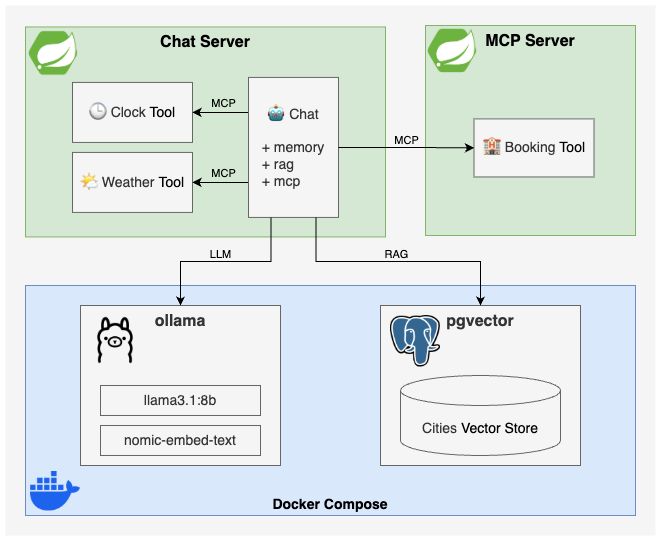
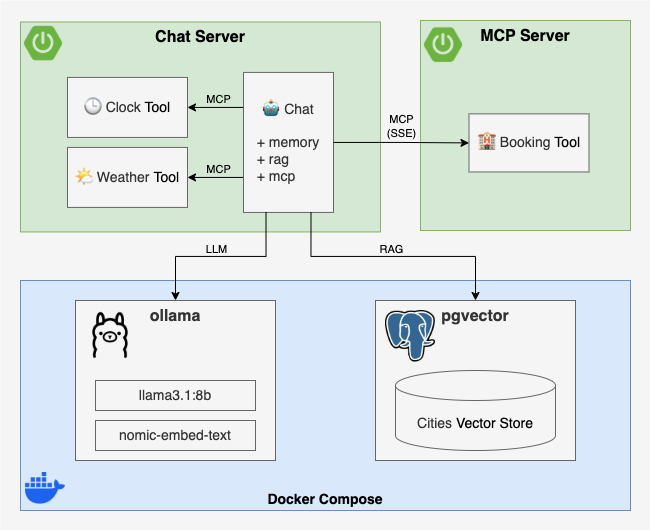
More doc (#7)

Changed region(s): [[0.0308, 0.0302, 0.9846, 0.966], [0.6462, 0.0302, 0.9846, 0.4528], [0.5231, 0.2113, 0.9231, 0.3321]]

diff --git a/README.md b/README.md
@@ -7,12 +7,13 @@
 
 # Spring Boot AI
 
-In this example, inspired by [Building Agents with AWS: Complete Tutorial](https://youtu.be/Y291afdLroQ?si=3xFBJo0Nfa-RmPkV), we will build a simple AI agent application using [Spring Boot AI](https://docs.spring.io/spring-ai/reference/index.html), highlighting key features like:
+In this example, inspired by [Building Agents with AWS: Complete Tutorial](https://youtu.be/Y291afdLroQ?si=3xFBJo0Nfa-RmPkV), we will build a simple AI agent application using [Spring AI](https://docs.spring.io/spring-ai/reference/index.html), highlighting key features like:
 * [Chat Client API](https://docs.spring.io/spring-ai/reference/api/chatclient.html) and its [Advisors](https://docs.spring.io/spring-ai/reference/api/advisors.html)
 * Model Context Protocol ([MCP](https://docs.spring.io/spring-ai/reference/api/mcp/mcp-overview.html))
 * Retrieval Augmented Generation ([RAG](https://docs.spring.io/spring-ai/reference/api/retrieval-augmented-generation.html))
+* Testing with [AI Model Evaluation](https://docs.spring.io/spring-ai/reference/api/testing.html) 🤩
 
-We will use [Ollama](https://ollama.com/), which will hopefully let us run a local LLM without too much struggle 😮💨 or heavy hardware requirements. The application will be tested using [AI Model Evaluation](https://docs.spring.io/spring-ai/reference/api/testing.html), and we will set up CI to run these tests automatically.
+The original example uses [AWS Bedrock](https://aws.amazon.com/bedrock/), but one of the great things about **Spring AI** is that with just a few config tweaks and dependency changes, the same code works with any other supported model. In our case, we’ll use [Ollama](https://ollama.com/), which will hopefully let us run locally and in CI without heavy hardware requirements 🙏
 
 The application features an AI agent that helps users book accommodations in tourist destinations.
 
@@ -36,8 +37,10 @@ The **Clock** and **Weather** tools will be implemented locally using **MCP**, w
       * [ChatController](#chatcontroller)
 * [Configuration](#configuration)
 * [Test](#test)
+  * [MCP Server](#mcp-server-1)
+  * [Chat Server](#chat-server-1)
 * [Run](#run)
-* [Other AI models](#other-ai-models)
+* [How to use other AI models](#how-to-use-other-ai-models)
 * [Documentation](#documentation)
 
 ## Implementation
@@ -83,27 +86,27 @@ The **Chat Server** is a Spring Boot application built with the following depend
 
 #### Components
 
-**MCP Tools**
-* **WeatherTool** - a local MCP tool that queries a **WeatherService** for the weather in a given city on a given date
-* **ClockTool** - a local MCP tool that uses the system Clock to return the current date
-* **BookingTool** - a remote MCP tool that connects to the Booking MCP Server to reserve accommodations
-
-**Chat**
-* **ChatClient** - a Spring AI ChatClient configured with:
-  * A system prompt to define the AI agent’s role
-  * The Ollama model autoconfigured by Spring Boot
-  * The above MCP tools as part of the AI agent’s toolset
-* **ChatService** - wraps the **ChatClient** and adds three advisors:
-  * **QuestionAnswerAdvisor** - fetches context from a vector store and augments the user input (RAG)
-  * **PromptChatMemoryAdvisor** - adds conversation history to the user input (chat memory)
-  * **SimpleLoggerAdvisor** - logs the chat history to the console (for debugging)
-* **ChatController** - exposes a simple REST POST endpoint that takes user input, calls the **ChatService**, and returns the AI agent’s response
+* **MCP Tools**
+  * **Weather Tool** - a local MCP tool that queries a **WeatherService** for the weather in a given city on a given date
+  * **Clock Tool** - a local MCP tool that returns the system date, letting us control the date the AI agent uses to avoid unpredictability
+  * **Booking Tool** - a remote MCP tool that connects to the Booking MCP Server to reserve accommodations
+* **Chat**
+  * **Chat Client** - a **Spring AI** ChatClient configured with:
+    * A system prompt to define the AI agent’s role
+    * The Ollama model autoconfigured by Spring Boot
+    * The above MCP tools as part of the AI agent’s toolset
+  * **Chat Service** - wraps the **ChatClient** and adds three advisors:
+    * **QuestionAnswerAdvisor** - fetches context from a vector store and augments the user input (RAG)
+    * **PromptChatMemoryAdvisor** - adds conversation history to the user input (chat memory)
+    * **SimpleLoggerAdvisor** - logs the chat history to the console (for debugging)
+  * **Chat Controller** - exposes a simple REST POST endpoint that takes user input, calls the **ChatService**, and returns the AI agent’s response
+* **Vector Store Initializer** - loads some sample data into the vector store at startup
 
 Let's implement this step by step ...
 
-##### Weather and Clock Tools
+#### Weather and Clock Tools
 
-Here's how the **WeatherTool** is implemented (the same applies to **ClockTool**):
+Here's how the **Weather Tool** is implemented (the same applies to **Clock Tool**):
 
 1. Create an instance and annotate it with `@Tool` and `@ToolParam`:
 ```kotlin
@@ -128,30 +131,26 @@ class WeatherToolConfiguration {
 }
 ```
 
-##### Booking Tool
+#### Booking Tool
 
-To set up the **BookingTool** as a remote MCP tool, we register a `SyncMcpToolCallbackProvider` using an `McpClient` configured with the remote MCP server URL:
+To set up the **Booking Tool** as a remote MCP tool, we just need to configure the MCP client [SSE connection](https://docs.spring.io/spring-ai/reference/api/mcp/mcp-client-boot-starter-docs.html#_sse_transport_properties)  in `application.yml`:
 
-```kotlin
-@Configuration
-class BookingToolConfiguration {
-    @Bean
-    fun bookingToolCallbackProvider(@Value("\${booking-server.url}") url: String) =
-        SyncMcpToolCallbackProvider(mcpSyncClient(url))
-
-    private fun mcpSyncClient(url: String) = McpClient
-        .sync(HttpClientSseClientTransport(url))
-        .build().apply {
-            initialize()
-        }
-}
+```yaml
+spring:
+  ai:
+    mcp:
+      client:
+        sse:
+          connections:
+            booking-tool:
+              url: http://localhost:8081
 ```
 
-For alternative ways to configure it, see the [MCP Client Boot Starter](https://docs.spring.io/spring-ai/reference/api/mcp/mcp-client-boot-starter-docs.html) documentation.
+You can find all the alternative configurations in [MCP Client Boot Starter](https://docs.spring.io/spring-ai/reference/api/mcp/mcp-client-boot-starter-docs.html) documentation.
 
-##### ChatClient
+#### ChatClient
 
-We create the **ChatClient** using Spring Boot AI's `ChatClient.Builder`, which is already autoconfigured via `spring.ai` configuration properties (we'll talk at that later in [Configuration](#configuration)), and initialize it with a custom system prompt and the available MCP tools:
+We create the **ChatClient** using **Spring AI**'s `ChatClient.Builder`, which is already autoconfigured via `spring.ai` configuration properties (we'll talk at that later in [Configuration](#configuration)), and initialize it with a custom system prompt and the available MCP tools:
 
 ```kotlin
 @Configuration
@@ -183,7 +182,7 @@ class ChatClientConfiguration {
 }
 ```
 
-##### ChatService
+#### ChatService
 
 The **ChatService** exposes a single `chat` method that takes a chat ID and a user question. It calls the `ChatClient` with the user question along with a set of advisors to enrich the interaction:
 * **QuestionAnswerAdvisor** - retrieves relevant context from a vector store and injects it to the context (RAG)
@@ -197,7 +196,6 @@ Here’s the implementation:
 ```kotlin
 @Service // or @Bean / @Component
 class ChatService(vectorStore: VectorStore, private val chatClient: ChatClient) {
-
     private val logger = LoggerFactory.getLogger(ChatService::class.java)
     private val questionAnswerAdvisor = QuestionAnswerAdvisor(vectorStore)
     private val simpleLoggerAdvisor = SimpleLoggerAdvisor()
@@ -220,14 +218,13 @@ class ChatService(vectorStore: VectorStore, private val chatClient: ChatClient) 
 }
 ```
 
-##### ChatController
+#### ChatController
 
 The **ChatController** exposes a simple REST POST endpoint that takes user input, calls the `ChatService`, and returns the AI agent’s response:
 
 ```kotlin
 @RestController
 class ChatController(private val chatService: ChatService) {
-
     @PostMapping("/{chatId}/chat")
     fun chat(@PathVariable chatId: String, @RequestParam question: String): String? {
         return chatService.chat(chatId, question)
@@ -235,13 +232,31 @@ class ChatController(private val chatService: ChatService) {
 }
 ```
 
+#### Vector Store Initializer
+
+It's as simple as using **Spring AI**’s autoconfigured `VectorStore` and adding documents to it. This automatically invokes the embedding model to generate embeddings and store them in the vector store:
+
+```kotlin
+@Bean
+fun vectorStoreInitializer(vectorStore: VectorStore) = ApplicationRunner {
+    // TODO check if the vector store is empty ...
+    // TODO load cities from a JSON file or any other source ...
+    cities.forEach { city ->
+      val document = Document("name: ${city.name} country: ${city.country} description: ${city.description}")
+      vectorStore.add(listOf(document))
+    }
+}
+```
+
+You can find the full version of `vectorStoreInitializer` in [ChatServerApplication.kt](chat-server/src/main/kotlin/com/rogervinas/ChatServerApplication.kt).
+
 ## Configuration
 
 In the main `application.yml` file, we define global configuration values:
 * Set the active Spring profile to `ollama`, allowing us to configure specific properties for the Ollama model in the `application-ollama.yml` file.
 * Configure the datasource to connect to a PostgreSQL database with PGVector support.
 * Set the server port to `8080`.
-* Configure the URL of the remote **BookingTool** MCP server.
+* Configure the URL of the remote **Booking Tool** MCP server.
 * Set the logging level for chat advisor debug traces.
 
 ```yaml
@@ -267,7 +282,7 @@ logging:
     org.springframework.ai.chat.client.advisor: INFO
 ```
 
-In the `ollama` profile configuration file, `application-ollama.yml`, we configure Spring AI to use Ollama models:
+In the `ollama` profile configuration file, `application-ollama.yml`, we configure **Spring AI** to use Ollama models:
 * Set the base URL for the Ollama server to `http://localhost:11434`.
 * Set the chat model to [llama3.1:8b](https://ollama.com/library/llama3.1:8b) (must be a **tools**-enabled model).
 * Set the embedding model to [nomic-embed-text](https://ollama.com/library/nomic-embed-text).
@@ -296,7 +311,161 @@ spring:
 
 ## Test
 
-TODO
+### MCP Server
+
+To test the **MCP Server**, we will use a `McpClient` to call the `book` method of the **Booking Tool**, mocking the downstream **BookingService**:
+
+![MCP Server Test](.doc/test-mcp-server.png)
+
+See the simplified test implementation below. For the complete implementation, including a test that verifies the list of available tools, refer to [McpServerApplicationTest.kt](mcp-server/src/test/kotlin/com/rogervinas/McpServerApplicationTest.kt).
+
+```kotlin
+@SpringBootTest(webEnvironment = RANDOM_PORT)
+class McpServerApplicationTest {
+
+  // 1. Inject the server port (it is random)
+  @LocalServerPort
+  val port: Int = 0
+
+  // 2. Mock the BookingService instance
+  @MockitoBean
+  lateinit var bookingService: BookingService
+
+  @Test
+  fun `should book`() {
+    // 3. Create a McpClient connected to the server
+    val client = McpClient.sync(HttpClientSseClientTransport("http://localhost:$port")).build()
+    client.initialize()
+    client.ping()
+
+    // 4. Mock the bookingService using argument captors
+    val bookResult = "Booking is done!"
+    val cityCaptor = argumentCaptor<String>()
+    val checkinDateCaptor = argumentCaptor<LocalDate>()
+    val checkoutDateCaptor = argumentCaptor<LocalDate>()
+    doReturn(bookResult)
+      .whenever(bookingService)
+      .book(cityCaptor.capture(), checkinDateCaptor.capture(), checkoutDateCaptor.capture())
+
+    // 5. Call the tool
+    val city = "Barcelona"
+    val checkinDate = "2025-04-15"
+    val checkoutDate = "2025-04-18"
+    val result = client.callTool(CallToolRequest(
+      "book",
+      mapOf(
+        "city" to city,
+        "checkinDate" to checkinDate,
+        "checkoutDate" to checkoutDate
+      )
+    ))
+
+    // 6. Verify the result
+    assertThat(result.isError).isFalse()
+    assertThat(result.content).singleElement().isInstanceOfSatisfying(TextContent::class.java) {
+      // TODO why is text double quoted?
+      assertThat(it.text).isEqualTo("\"$bookResult\"")
+    }
+
+    // 7. Verify that the bookingService was called with the correct parameters
+    assertThat(cityCaptor.allValues).singleElement().isEqualTo(city)
+    assertThat(checkinDateCaptor.allValues).singleElement().isEqualTo(LocalDate.parse(checkinDate))
+    assertThat(checkoutDateCaptor.allValues).singleElement().isEqualTo(LocalDate.parse(checkoutDate))
+
+    // 8. Close the client
+    client.close()
+  }
+}
+```
+
+### Chat Server
+
+To test the **Chat Server**, we will:
+* Replace the remote **Booking Tool** by a local **Booking Test Tool** with the same signature.
+  * Disable the MCP client with `spring.ai.mcp.client.enabled: false` in `application-test.yml`.
+  * Create the local **Book Testing Tool** in [BookingTestToolConfiguration.kt](chat-server/src/main/kotlin/com/rogervinas/BookingTestToolConfiguration.kt).
+* Mock the downstream services **Weather Service** and **Booking Service** with `MockitoBean`.
+* Create a fixed **Clock** to control the date in [ClockTestToolConfiguration.kt](chat-server/src/test/kotlin/com/rogervinas/configuration/ClockTestToolConfiguration.kt)
+  * Declare it as `@Primary @Bean` to override the default `Clock` bean.
+* Start Docker Compose with both Ollama and PGVector using [Testcontainers](https://testcontainers.com/)
+
+![Chat Server Test](.doc/test-chat-server.png)
+
+You might’ve noticed that the test doesn’t actually check the MCP client’s SSE connection as it is disabled. I tried spinning up an `McpServer` using `McpServerAutoConfiguration`, and it almost worked. The problem? The client tries to connect before the server is up, which causes the whole application to fail on startup. Maybe is just an ordering issue, and hopefully something that can be fixed in the future 🤞
+
+Now for the interesting part, how do we test the AI agent’s response? This is where [Evaluation Testing](https://docs.spring.io/spring-ai/reference/api/testing.html) comes in:
+> One method to evaluate the response is to use the AI model itself for evaluation. Select the best AI model for the evaluation, which may not be the same model used to generate the response.
+
+This aligns with the **evaluation techniques** described in Martin Fowler’s [Evals](https://martinfowler.com/articles/gen-ai-patterns/#evals) GenAI pattern:
+* **Self-evaluation**: The LLM evaluates its own response, but this can reinforce its own mistakes or biases.
+* **LLM as a judge**: Another model scores the output, reducing bias by introducing a second opinion.
+* **Human evaluation**: People manually review responses to ensure the tone and intent feel right. 
+
+To keep things simple, we’ll go with self-evaluation 🤓
+
+Each test will follow this structure:
+
+```kotlin
+fun `should do something`() {
+    // 1. Mock downstream service(s)
+    // Optionally use argument captors depending on how you plan to verify parameters in step 5
+    // Example for BookingService:
+    doReturn("Your booking is done!")
+      .whenever(bookingTestService).book(any(), any(), any())
+
+    // 2. Call the chat service
+    val chatId = UUID.randomUUID().toString()
+    val chatResponse = chatService.chat(chatId, "Can you book accommodation for Barcelona from 2025-04-15 to 2025-04-18?")
+  
+    // 3. Evaluate the response using the AI model
+    val evaluationResult = TestEvaluator(chatClientBuilder) { evaluationRequest, userSpec ->
+      userSpec.text(
+        """
+            Your task is to evaluate if the answer given by an AI agent to a human user matches the claim.
+            Return YES if the answer matches the claim and NO if it does not.
+            After returning YES or NO, explain why.
+            Assume that today is ${LocalDate.now(clock)}.
+            Answer: {answer}
+            Claim: {claim}
+        """.trimIndent()
+      )
+        .param("answer", evaluationRequest.responseContent)
+        .param("claim", evaluationRequest.userText)
+    }.evaluate(EvaluationRequest("Accommodation has been booked Barcelona from 2025-04-15 to 2025-04-18", chatResponse))
+  
+    // 4. Assert the evaluation result is successful, show feedback if not
+    assertThat(evaluationResult.isPass).isTrue.withFailMessage { evaluationResult.feedback }
+  
+    // 5. If applicable, verify the parameters passed to the service
+    // You can verify with argument captors or use the `verify` method as in the example below:
+    verify(bookingTestService).book(
+      eq("Barcelona"), 
+      eq(LocalDate.parse("2025-04-15")), 
+      eq(LocalDate.parse("2025-04-18"))
+    )
+}
+```
+
+See the full test implementation in [ChatServerApplicationTest.kt](chat-server/src/test/kotlin/com/rogervinas/ChatServerApplicationTest.kt).
+
+Each evaluation uses a custom prompt tailored to the specific response being tested, and as you experiment, you'll notice some surprisingly quirky behavior. That’s why I ended up creating a custom `TestEvaluator`, based on Spring AI’s `RelevancyEvaluator` and `FactCheckingEvaluator`, which may not yet offer the level of customization you might want.
+
+I had to adjust each prompt after running into odd results. For example, the evaluation model assuming it was still 2023 and refusing to believe the AI agent could predict weather for 2025. Or it mistaking "you" in the answer as referring to itself instead of the user. The weirdest? One evaluation just answered “NO” but the explanation said, “well, maybe I should have said YES” 🤣
+
+For a production system, you'd definitely need a lot of prompt tuning and testing to get things right, for both the system and the evaluator, I suppose that’s part of the "fun" when working with GenAI.
+
+This whole setup can run locally without needing powerful hardware, the models are lightweight enough for a laptop. That said, it's slow. To speed things up for CI, I disabled all tests except for this basic one:
+
+```kotlin
+@Test
+@EnabledIfCI
+fun `should be up and running`() {
+    val chatId = UUID.randomUUID().toString()
+    val chatResponse = chatService.chat(chatId, "Hello!")
+
+    assertThat(chatResponse).isNotNull() // Any response is good 👌
+}
+```
 
 ## Run
 
@@ -323,6 +492,8 @@ cd chat-server
 
 4. Execute queries
 
+You can access the API at [http://localhost:8080/swagger-ui.html](http://localhost:8080/swagger-ui.html) or use any HTTP client of your choice. Below are some examples using `curl`:
+
 ```shell
 curl -X POST "http://localhost:8080/2/chat" \
 -H "Content-Type: application/x-www-form-urlencoded" \
@@ -341,14 +512,20 @@ curl -X POST "http://localhost:8080/2/chat" \
 -d "question=Can I get a hotel for Berlin next monday for two nights?"
 ```
 
-## Other AI models
+## How to use other AI models
 
-To use a different [AI models](https://docs.spring.io/spring-ai/reference/api/chatmodel.html) supported by Spring AI, follow these steps:
+To use any of the other [AI models](https://docs.spring.io/spring-ai/reference/api/chatmodel.html) supported by **Spring AI**, follow these steps:
 * Add the required dependencies
 * Configure the model in its own `application-<model>.yml` file
 * Activate the profile using `spring.profiles.active=<model>` in the main `application.yml` file
 
+For example, checkout the `bedrock` branch in this repo for the [AWS Bedrock](https://aws.amazon.com/bedrock/) model configuration.
+
 ## Documentation
 
-* [Spring Boot AI](https://docs.spring.io/spring-ai/reference/index.html) documentation
-* Example project: [spring-ai-java-bedrock-mcp-rag](https://github.com/aws-samples/Sample-Model-Context-Protocol-Demos/tree/main/modules/spring-ai-java-bedrock-mcp-rag)
+* [Spring AI](https://docs.spring.io/spring-ai/reference/index.html) documentation
+* [Martin Fowler's GenAI patterns](https://martinfowler.com/articles/gen-ai-patterns)
+* Inspired by sample project [spring-ai-java-bedrock-mcp-rag](https://github.com/aws-samples/Sample-Model-Context-Protocol-Demos/tree/main/modules/spring-ai-java-bedrock-mcp-rag)
+* [Awesome Spring AI](https://github.com/danvega/awesome-spring-ai)
+
+Happy GenAI coding! 💙
